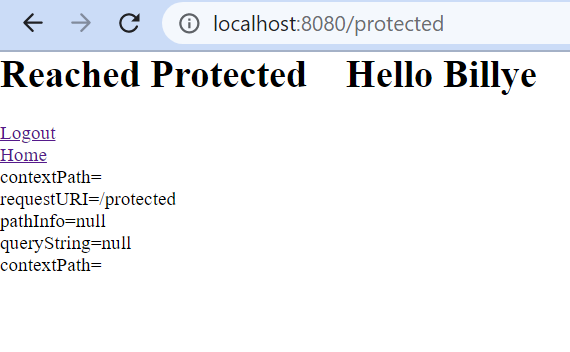
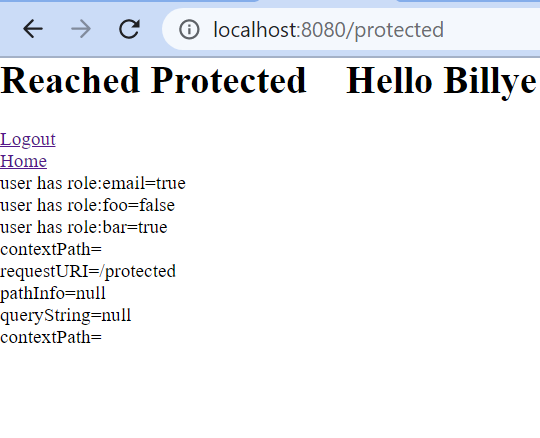
Treating scope as roles

Changed region(s): [[0.0, 0.0, 1.0, 0.2812], [0.0, 0.2812, 0.3556, 0.7812]]

diff --git a/simple-oidc-check/simple-oidc-realm/src/main/java/com/example/oidc/principal/impl/OidcPrincipalImpl.java b/simple-oidc-check/simple-oidc-realm/src/main/java/com/example/oidc/principal/impl/OidcPrincipalImpl.java
@@ -1,6 +1,8 @@
 package com.example.oidc.principal.impl;
 
 import java.security.Principal;
+import java.util.Arrays;
+import java.util.List;
 
 import com.example.oidc.principal.IntrospectionResponse;
 import com.example.oidc.principal.OidcPrincipal;
@@ -12,10 +14,37 @@ import com.example.oidc.principal.impl.accesstoken.AccessTokenDataImpl;
 import com.example.oidc.principal.impl.idtoken.IdTokenDataImpl;
 import com.example.util.ObjectMapperHolder;
 import com.fasterxml.jackson.core.JsonProcessingException;
+import org.apache.catalina.realm.GenericPrincipal;
 
-public class OidcPrincipalImpl  implements OidcPrincipal, Principal{
+public class OidcPrincipalImpl extends GenericPrincipal implements OidcPrincipal, Principal {
 	
-	private TokenResponse tokenResponse;
+
+	public OidcPrincipalImpl(String name, TokenResponse tokenResponse, AccessTokenData accessTokenData,
+			IdTokenData idTokenData, UserInfo userInfo, IntrospectionResponse introspectionResponse, 
+			String userId, String[] roles, int settingsIndex) {
+		super(name, Arrays.asList(roles));
+		this.tokenResponse = tokenResponse;
+		this.accessTokenData = accessTokenData;
+		this.idTokenData = idTokenData;
+		this.userInfo = userInfo;
+		this.introspectionResponse = introspectionResponse;
+		this.name = name;
+		this.userId = userId;
+		this.roles = roles;
+		this.settingsIndex = settingsIndex;
+	}
+	
+	public OidcPrincipalImpl()
+	{
+		super(null, null);
+		tokenResponse=new TokenResponseImpl();
+		accessTokenData= new AccessTokenDataImpl();
+		idTokenData=new IdTokenDataImpl();
+		userInfo= new UserInfoImpl();
+		introspectionResponse = new IntrospectionResponseImpl();
+	}
+
+	
 	@Override
 	public TokenResponse getTokenResponse() {
 		return tokenResponse;
@@ -38,7 +67,8 @@ public class OidcPrincipalImpl  implements OidcPrincipal, Principal{
 	public UserInfoImpl getUserInfoImpl() {
 		return (UserInfoImpl) userInfo;
 	}
-
+	private TokenResponse tokenResponse;
+	
 	private AccessTokenData accessTokenData;
 	private IdTokenData idTokenData;
 	private UserInfo userInfo;
@@ -48,14 +78,7 @@ public class OidcPrincipalImpl  implements OidcPrincipal, Principal{
 	private String[] roles;
 	private int settingsIndex;
 	
-	public OidcPrincipalImpl()
-	{
-		tokenResponse=new TokenResponseImpl();
-		accessTokenData= new AccessTokenDataImpl();
-		idTokenData=new IdTokenDataImpl();
-		userInfo= new UserInfoImpl();
-		introspectionResponse = new IntrospectionResponseImpl();
-	}
+	
 	
 	
 	
@@ -72,9 +95,13 @@ public class OidcPrincipalImpl  implements OidcPrincipal, Principal{
 		
 		return this.roles;
 	}
+	
 
 	@Override
 	public boolean hasRole(String role) {
+		 if ("*".equals(role)) { // Special 2.4 role meaning everyone
+	            return true;
+	        }
 		boolean hasRole=false;
 		for (String checkWith : roles) {
 			if(role.equals(checkWith))
@@ -98,7 +125,7 @@ public class OidcPrincipalImpl  implements OidcPrincipal, Principal{
 	/*
 	 * Customise
 	 */
-	public void buildDerived() {
+	public OidcPrincipalImpl buildDerived() {
 		if(this.userInfo.getGiven_name()!=null && this.userInfo.getGiven_name().length()>0)
 		{
 			this.name=this.userInfo.getGiven_name();
@@ -115,6 +142,10 @@ public class OidcPrincipalImpl  implements OidcPrincipal, Principal{
 		{
 			this.userId=this.getIntrospectionResponse().getUserid();
 		}
+		return new  OidcPrincipalImpl(this.name, this.tokenResponse, this.accessTokenData,
+				this.idTokenData, this.userInfo, this.introspectionResponse, 
+				this.userId, this.roles, this.settingsIndex);
+		
 	}
 	@Override
 	public AccessTokenData getAccessTokenData() {
@@ -154,5 +185,15 @@ public class OidcPrincipalImpl  implements OidcPrincipal, Principal{
 	public void setSettingsIndex(int settingsIndex) {
 		this.settingsIndex = settingsIndex;
 	}
+
+	@Override
+	public String toString() {
+		return "OidcPrincipal [tokenResponse=" + tokenResponse + ", accessTokenData=" + accessTokenData
+				+ ", idTokenData=" + idTokenData + ", userInfo=" + userInfo + ", introspectionResponse="
+				+ introspectionResponse + ", name=" + name + ", userId=" + userId + ", roles=" + Arrays.toString(roles)
+				+ ", settingsIndex=" + settingsIndex + "]";
+	}
+	
+	
 
 }

diff --git a/simple-oidc-check/simple-oidc-app/src/main/java/com/example/servlet/Protected.java b/simple-oidc-check/simple-oidc-app/src/main/java/com/example/servlet/Protected.java
@@ -40,12 +40,20 @@ public class Protected extends HttpServlet {
 		out.println("<h1>Reached Protected &nbsp;&nbsp; Hello "+request.getRemoteUser()+"</h1>");
 		out.println("<a href=\"logout\">Logout</a><br/>");
 		out.println("<a href=\"/\">Home</a><br/>");
+		userInRole(request, out, "email");
+		userInRole(request, out, "foo");
+		userInRole(request, out, "bar");
 		out.println("contextPath="+contextPath+"<br/>");
 		out.println("requestURI="+requestURI+"<br/>");
 		out.println("pathInfo="+pathInfo+"<br/>");
 		out.println("queryString="+queryString+"<br/>");
 		out.println("contextPath="+contextPath+"<br/>");
 		out.println("</body></html>");
+	}
+
+	private void userInRole(HttpServletRequest request, PrintWriter out, String roleName) {
+		boolean userInRole = request.isUserInRole(roleName);
+		out.println("user has role:"+roleName+"="+userInRole+"<br/>");
 	}
 
 	

diff --git a/simple-oidc-check/simple-oidc-app/src/main/java/com/example/servlet/AuthorizationCodeFlowCallBack.java b/simple-oidc-check/simple-oidc-app/src/main/java/com/example/servlet/AuthorizationCodeFlowCallBack.java
@@ -123,7 +123,7 @@ public class AuthorizationCodeFlowCallBack extends HttpServlet {
 					if(authenticatedPrincipal instanceof OidcPrincipal)
 					{
 						OidcPrincipal oidcPrincipal=(OidcPrincipal) authenticatedPrincipal;
-						logger.log(Level.FINE, "authenticated oidc principal="+oidcPrincipal.toJsonString());
+						logger.log(Level.FINE, "authenticated oidc principal="+oidcPrincipal.toString());
 					}
 					String originalRequestUri = extractOriginalRequestUriFromState(stateValueFromCookie);
 					if(originalRequestUri==null)

diff --git a/admin-api-wrapper/src/main/admin-src/admin/Setup.java b/admin-api-wrapper/src/main/admin-src/admin/Setup.java
@@ -138,7 +138,7 @@ public class Setup implements ISetup{
 				 );
 		
 		 
-		 new ScopesCreator(core).addScopes( "email", "roles");
+		 new ScopesCreator(core).addScopes("email", "foo", "bar");
 		 
 		 new ClientCreator(core).createClient( SynchedAutomationSharedConstants.AuthCodeClientId, SynchedAutomationSharedConstants.AuthCodeClientId, SynchedAutomationSharedConstants.AuthCodeClientSecret, atmId1, 
 				  true, null, "http://localhost:8080/oidc-hello", GrantTypesEnum.AUTHORIZATION_CODE,

diff --git a/simple-oidc-check/simple-oidc-realm/src/main/java/com/example/realm/SimpleOidcRealm.java b/simple-oidc-check/simple-oidc-realm/src/main/java/com/example/realm/SimpleOidcRealm.java
@@ -48,9 +48,9 @@ public class SimpleOidcRealm extends RealmBase{
     public Principal authenticate(String username, String credentials) {
 		try {
 			OidcPrincipalImpl principal = lastLeg(credentials);
-			principal.buildDerived();
+			return principal.buildDerived();
 
-			return principal;
+			
 			
 		} catch (Exception e) {
 			logger.log(Level.SEVERE, "Got Problem treated as reason not to authenticate", e);

diff --git a/simple-oidc-check/simple-oidc-app/src/main/java/com/example/util/RedirectToOidc.java b/simple-oidc-check/simple-oidc-app/src/main/java/com/example/util/RedirectToOidc.java
@@ -37,7 +37,7 @@ public class RedirectToOidc {
 		String url=settings.getAuthorizationEndpoint()+"?redirect_uri="+
 		Encoder.encode(redirectUrl)
 		+"&response_type=code&client_id="+settings.getClientId()
-		+"&scope="+Encoder.encode("openid email roles")
+		+"&scope="+Encoder.encode("openid email foo bar")
 		+"&state="+Encoder.encode(state)
 		+"&nonce="+Encoder.encode(nonce);
 		if(loginHint!=null)

diff --git a/Setup.md b/Setup.md
@@ -129,9 +129,14 @@ This will start and verify the authorization code flow.
 <img width="255" alt="authorization_code1" src="https://user-images.githubusercontent.com/14346578/210154455-1b3749f0-fc34-4918-a371-d856a2e7cc9a.png">    
 Note: Use "password" for password
 Then  
-<img width="300" alt="authorization_code2" src="https://user-images.githubusercontent.com/14346578/210154467-3ddc1934-1ad2-4ad8-b5ab-fa92ad3ad5c6.png">    
+<img width="641" alt="authorization_code2" src="https://user-images.githubusercontent.com/14346578/210169644-0929666f-7265-436e-9667-0a35b82f3060.png">    
+Uncheck foo scope item.
+<img width="586" alt="authorization_code3" src="https://user-images.githubusercontent.com/14346578/210169650-98df70d9-5ca6-45f4-8366-cb8462f395fd.png">   
+Press Allow button.  
 Next screen should be this.  
-<img width="285" alt="protected" src="https://user-images.githubusercontent.com/14346578/210154481-e190b6e2-ef66-4da0-99a4-c1f56bd79f98.png">   
+<img width="270" alt="protected" src="https://user-images.githubusercontent.com/14346578/210169662-38c982b7-b63e-45c5-a150-94af44ceb6c4.png">   
+Note: As can be seen in above screen in our authorization code sample for convenience treating scope as the user roles.  Thats why it says false against foo. But true against bar. 
+Also Note: security can be applied against scope and also roles treating both as difefrent concepts.
 Look at the console to see the acces token and other details.  
 This above application demonstrates the **authorisation code flow**.  
 The improvment areas are :  

diff --git a/code-synch/README.md b/code-synch/README.md
@@ -12,5 +12,7 @@ This was just a mater of personal preference.
 
 In any case both approaches lead to an additional module.   
  
-Did want to also demosntrate how easy its to write a maven based custom code generator.  
-Could have easily leveraged moustache templates for that matter and generated all kinds of code.
+Did want to also try  a maven based custom code generator which participates in the build without creating a custom maven plugin.  
+Could have easily leveraged moustache templates for that matter and generated all kinds of code.  
+
+That said might switch to using a common shared module later instead.  
